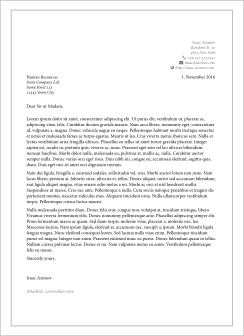
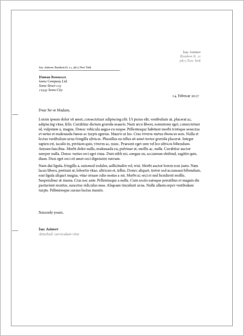
update xetex letter template

diff --git a/xetex-letter/xetex-letter.tex b/xetex-letter/xetex-letter.tex
@@ -1,63 +1,39 @@
-\documentclass[11pt,a4paper, final]{moderncv}
-
-\usepackage{color}
-\usepackage{fontspec}
-\moderncvtheme{classic}
-
-% scale the page layout
-\usepackage[scale=0.75]{geometry}
-
-% change width of the column with the dates
-\setlength{\hintscolumnwidth}{2.5cm} 
-
-% required when changing page layout lengths
-\AtBeginDocument{\recomputelengths} 
-\usepackage{xunicode}
-\usepackage{xltxtra}
-\usepackage[utf8]{inputenc}
-
-% german word break/hyphenation rules
-\usepackage[ngerman]{babel}
-
-% insert dummy text (used in the letter)
-\usepackage{lipsum} 
+\documentclass{xetex-letter}
 
 % Minion Pro is used as the main font, if you don't
 % have it installed uncomment this line or choose another pretty font
 \setmainfont[Numbers=OldStyle]{Minion Pro}
 
-% for the icons (telephone, globe). i found the icons provided by the
-% fontawesome package prettier than the standard moderncv icons.
-\usepackage{fontawesome}
+% senders personal data
+\def \first {Isac}
+\def \last {Asimov}
+\def \street {Random St. 21}
+\def \city {9873 New York}
 
-% personal data
-\firstname{Isaac}
-\familyname{Asimov}
-\address{Random St. 21}{9873 New York}
+% recipient
+\def \recipientHighlight {Human Resources}
+\def \recipientRest {Some Company Ltd. \\ Some Street 123 \\ 12345 Some City}
 
-% i use the extrainfo command for additional information, since i 
-% want to use custom icons and have finer control over spacing.
-\extrainfo{
-	\faPhone\hspace{0.3em}+49 137 3717321\\
-	{\small\faEnvelope}\hspace{0.3em}isaac@asimov.com\\
-	\faGlobe\hspace{0.3em}http://isaac.asimov.com
-}
+% just for the blindtext
+\usepackage{lipsum} 
 
+\usepackage{polyglossia}
+\setmainlanguage{english}
 
-%===========================
 \begin{document}
 
-\recipient{Human Resources}{Some Company Ltd.\\Some Street 123\\12345 Some City} 
-\date{\today}
-\opening{Dear Sir or Madam,}
+% to show the folding marks
+\foldingmarks
+
+\letterstart
+
+\salutation{Dear Sir or Madam,}
+
+\lipsum[1-2]
+
 \closing{Sincerely yours,}
 \enclosure[Attached]{curriculum vit\ae{}}
 
-\makelettertitle
-
-\lipsum[1-3] 
-
-\makeletterclosing
-
+\letterend
 
 \end{document}

diff --git a/README.md b/README.md
@@ -59,6 +59,9 @@ ACM template which was used in e.g. the classical [UNIX paper](http://dl.acm.org
 
 [Link to PDF](https://github.com/cmichi/latex-template-collection/raw/master/xetex-letter/xetex-letter.pdf)
 
+You might have to compile the file two times for the folding marks to 
+show up.
+
 
 ## Invoices
 
